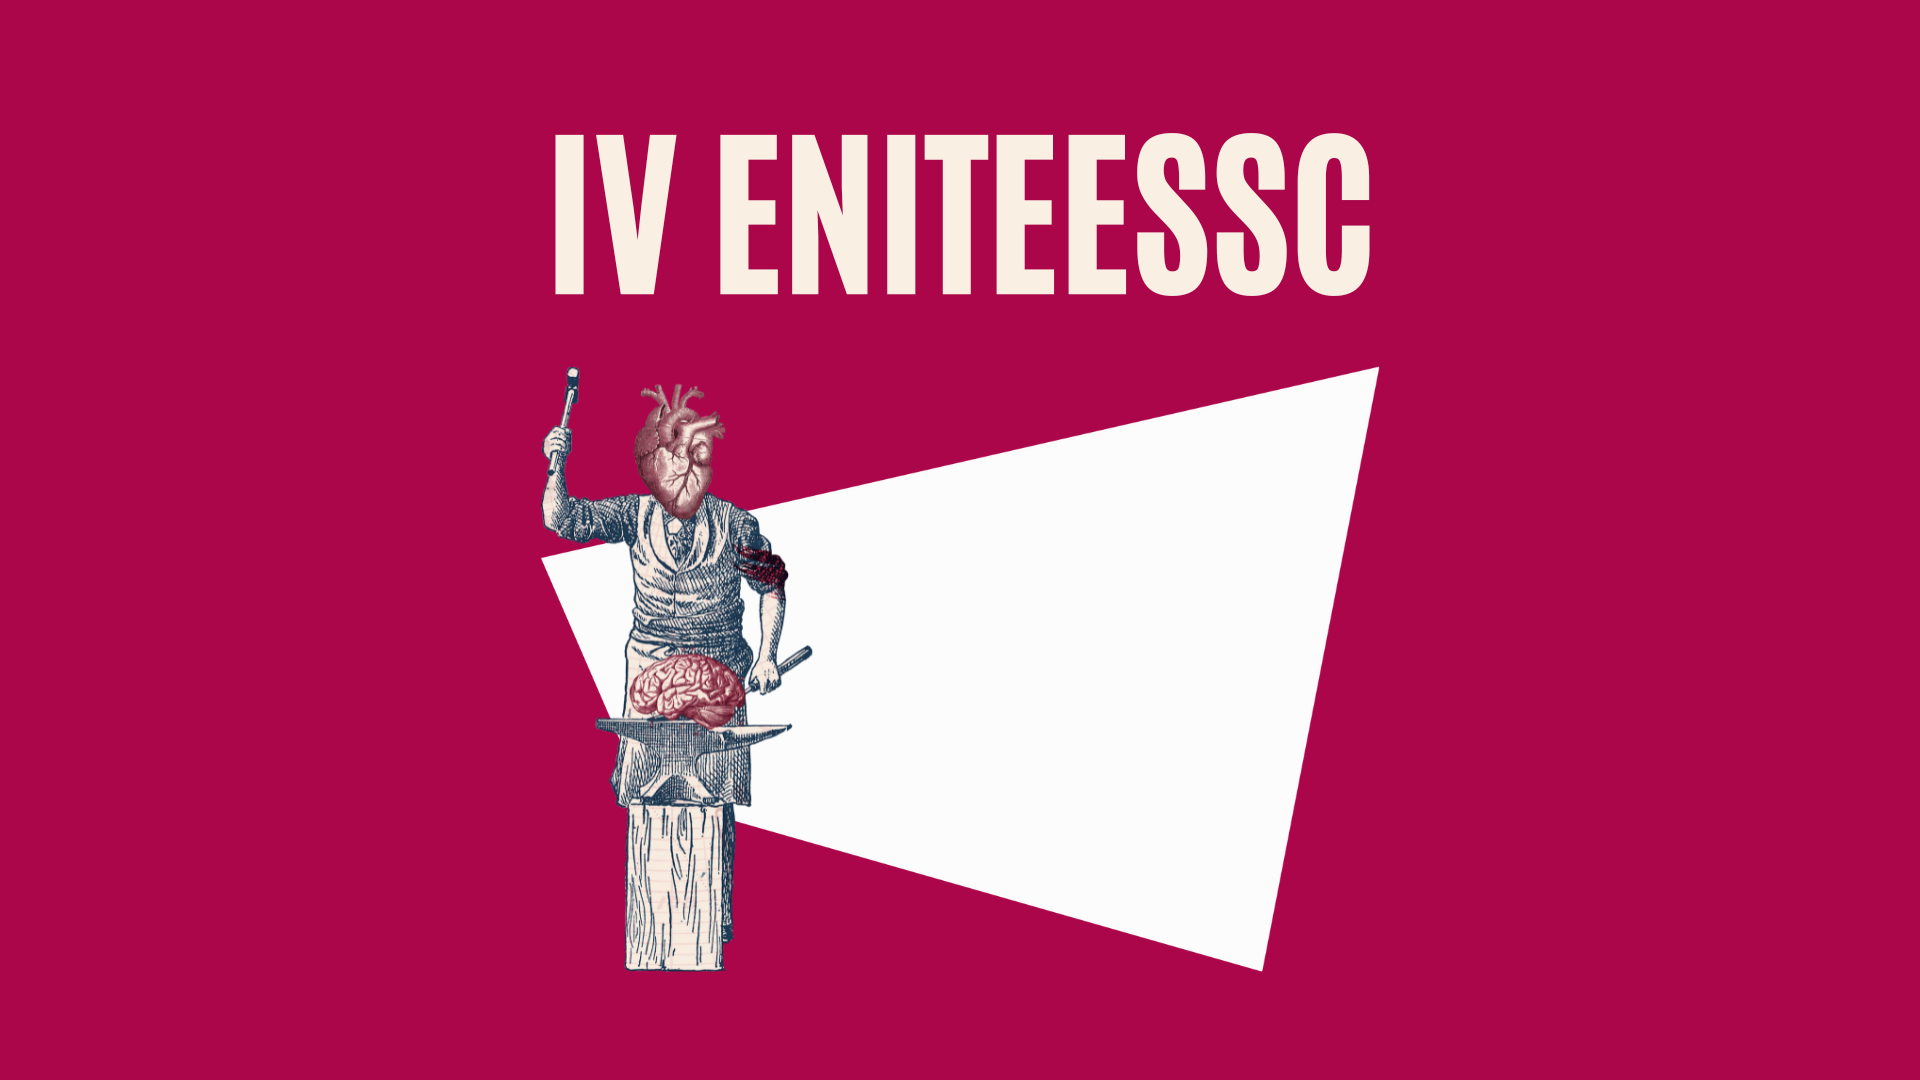
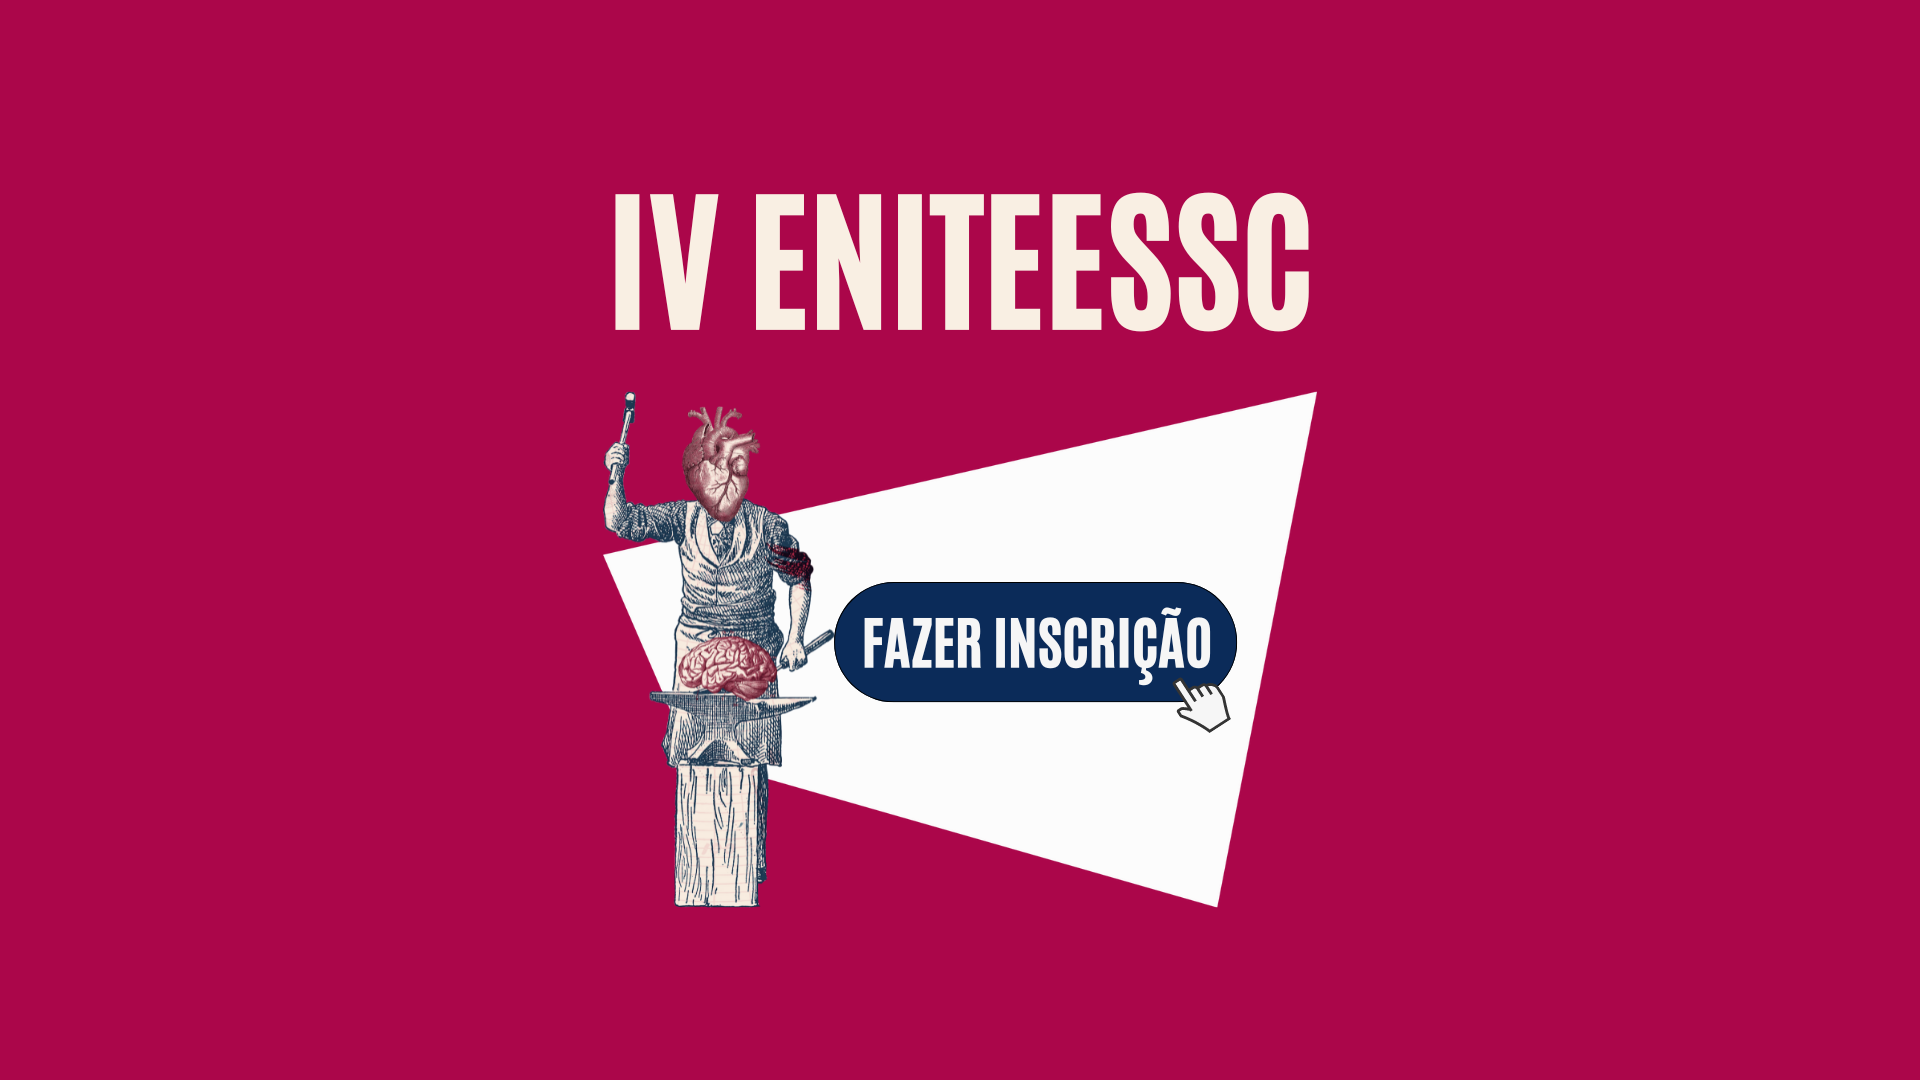
Mods

Changed region(s): [[0.2812, 0.3361, 0.7188, 0.9167], [0.2812, 0.1222, 0.7188, 0.3056], [0.4375, 0.3972, 0.5938, 0.4583]]

diff --git a/index.html b/index.html
@@ -122,10 +122,12 @@
 
                 <div class="cx-boasvindas" id="m-img" onclick="outraImagem()">
 
-                    <script src="./js/mudaCapa.js"></script>
+                    <a id="eniteessc" href="https://eventos.uece.br/siseventos/processaEvento/evento/exibeDetalhes.jsf?area=indexEvento&id=0&contexto=iveniteessc2024" target="_blank">
+                        <script src="./js/mudaCapa.js"></script>
 
-                    <div class="txt-boas-vindas">
-
+                        <!--
+                        <div class="txt-boas-vindas">
+                        
                         <div class="img-boas-v">
                             <img src="./assets/logo-meu.png">
                         </div>
@@ -133,13 +135,15 @@
                         <h1>Seja bem vindo</h1>
                         <p> <i> "Os filósofos têm apenas interpretado o mundo de maneiras diferentes; a questão, porém, é transformá-lo." <br> K. Marx </i> </p>
 
-                        <!--
+                        
                         <div class="cx-mensagem">
                             <p>"Os filósofos se preocuparam em <br> entender o mundo, mas o que <br> importa é transformá-lo" _Marx.</p>
                         </div>
-                        -->
                         
-                    </div>
+                        
+                        </div>
+                        -->
+                    </a>
 
                 </div>
 

diff --git a/css/style.css b/css/style.css
@@ -223,12 +223,18 @@ header .banner-video .cx-boasvindas{
     width: 100%;
     height: 80vh;
     margin: 2% auto auto auto;
-    background-image: url(../assets/noite-sertao.png);
-    background-attachment: fixed;
+    background-image: url(../assets/feclesc\ quixadá.png);
+    background-attachment: scroll;
     background-position: center;
     background-size: cover;
     background-repeat: no-repeat;
     border-top: solid 1px transparent;
+}
+
+header .banner-video .cx-boasvindas #eniteessc{
+    display: block;
+    width: 100%;
+    height: 100%;
 }
 
 header .banner-video .cx-boasvindas .txt-boas-vindas{

diff --git a/css/responsive.css b/css/responsive.css
@@ -29,6 +29,7 @@
     
     header .banner-video .cx-boasvindas{
         margin: -40px auto 0px;
+        height: 60vh;
     }
     header .banner-video .cx-boasvindas .txt-boas-vindas .img-boas-v{
         max-width: 70px;
@@ -77,6 +78,9 @@
     }
     .sec-1 .cx-sec-1 .sec-1-conteudo .divDireitaBlog h2{
         font-size: 25px;
+    }
+    .sec-1 .cx-sec-1 .sec-1-conteudo .divDireitaBlog .outro-texto{
+        height: 90px;
     }
     .sec-1 .cx-sec-1 .sec-1-conteudo .divDireitaBlog .outro-texto .out-texto h3{
         font-size: 18px;
